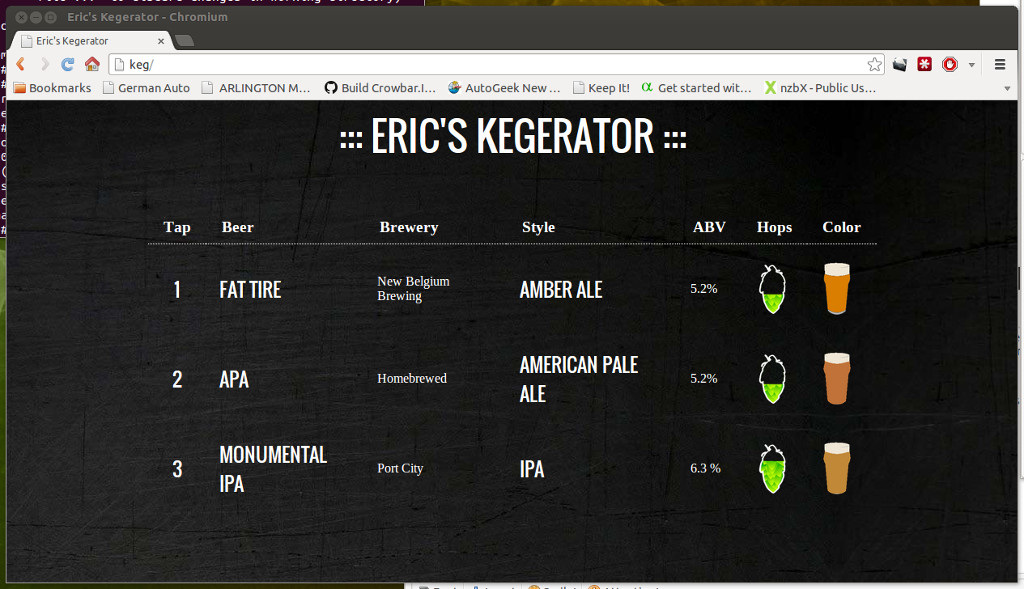
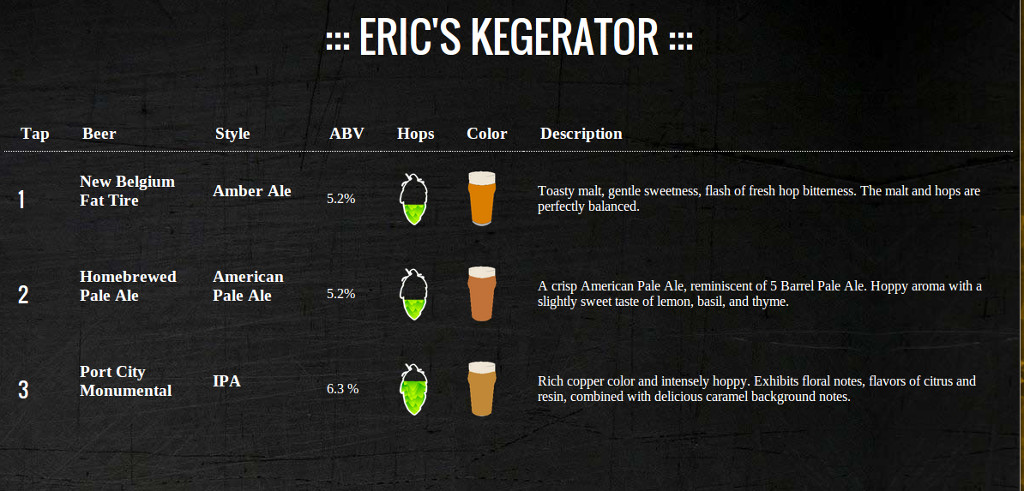
fixing up a few things, and redoing the html/css to fit on screen better

diff --git a/beer.css b/beer.css
@@ -36,8 +36,8 @@ table
 /*	background:#2483A6;
 */
 	border-collapse:collapse;
-	width:900px;
-/*	border:5px solid #C1DAD7;*/
+/*	width:1200px;*/
+/*	border:5px solid #C1DAD7; */
 }
 
 thead
@@ -64,6 +64,14 @@ td
 {
 /*	font-family: 'Argo', serif;*/
 	padding:.5em 1em;
+        vertical-align: middle;
+}
+
+.tap
+{
+	font-family: 'Argo', serif;
+	padding:.5em 1em;
+        vertical-align: middle;
 }
 
 h2

diff --git a/index.php b/index.php
@@ -31,7 +31,8 @@ $result = mysql_query("SELECT
         Beer.Style,
         Beer.ABV,
         Beer.Hops,
-        Beer.SRM as Color
+        Beer.SRM as Color,
+        Beer.Description
 FROM    Beer
 WHERE   Tap > 0 
 GROUP BY Beer.Tap, 
@@ -40,7 +41,8 @@ GROUP BY Beer.Tap,
         Beer.Style, 
         Beer.ABV, 
         Beer.Hops, 
-        Beer.SRM
+        Beer.SRM,
+        Beer.Description
 ORDER BY Tap ASC
 ");
 if (!$result) {    
@@ -50,10 +52,13 @@ $fields_num = mysql_num_fields($result);
 echo "<table align='center'><thead>";
 
 // printing table headers
-for($i=0; $i<$fields_num; $i++)
-{    $field = mysql_fetch_field($result);
-    echo "<th>{$field->name}</th>";
-}
+echo "<th>Tap</th>";
+echo "<th>Beer</th>";
+echo "<th>Style</th>";
+echo "<th>ABV</th>";
+echo "<th>Hops</th>";
+echo "<th>Color</th>";
+echo "<th>Description</th>";
 echo "</thead>\n";
 
 
@@ -61,13 +66,13 @@ while($row = mysql_fetch_array($result))
   
 {
   echo "<tr>";
-  echo "<td align='center'><h2>" . $row['Tap'] . "</h2></td>";
-  echo "<td><h2>" . $row['Beer'] . "</h2></td>";
-  echo "<td>" . $row['Brewery'] . "</td>";
-  echo "<td><h2>" . $row['Style'] . "</h2></td>";
+  echo "<td class='tap'><h2>" . $row['Tap'] . "</h2></td>";
+  echo "<td><h3>" . $row['Brewery'] . "\n" . $row['Beer'] . "</h3></td>";
+  echo "<td><h3>" . $row['Style'] . "</h3></td>";
   echo "<td>" . $row['ABV'] . "</td>";
   echo "<td><img height='95' width='auto'  src='images/" . $row['Hops'] . " Hops - new.png' width='200'</td>";
   echo "<td><img height='70' width='auto' src='images/SRM "	.	$row['Color']	.	".png' height='75'</td>";
+  echo "<td>" . $row['Description'] . "</td>";
   echo "</tr>";
   
   }
